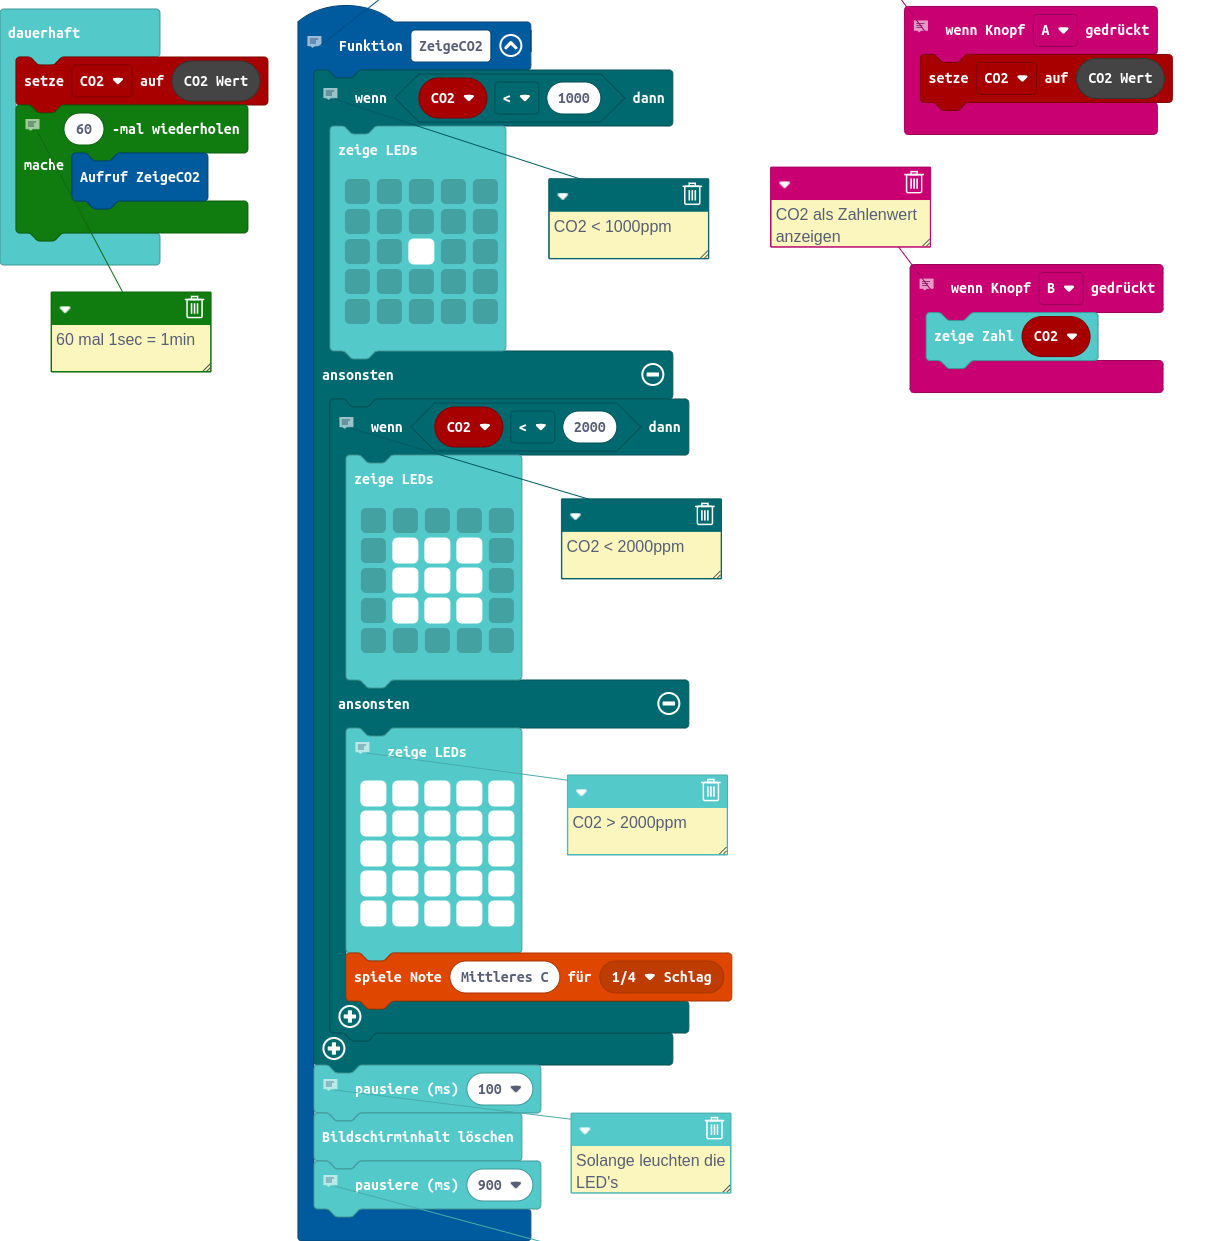
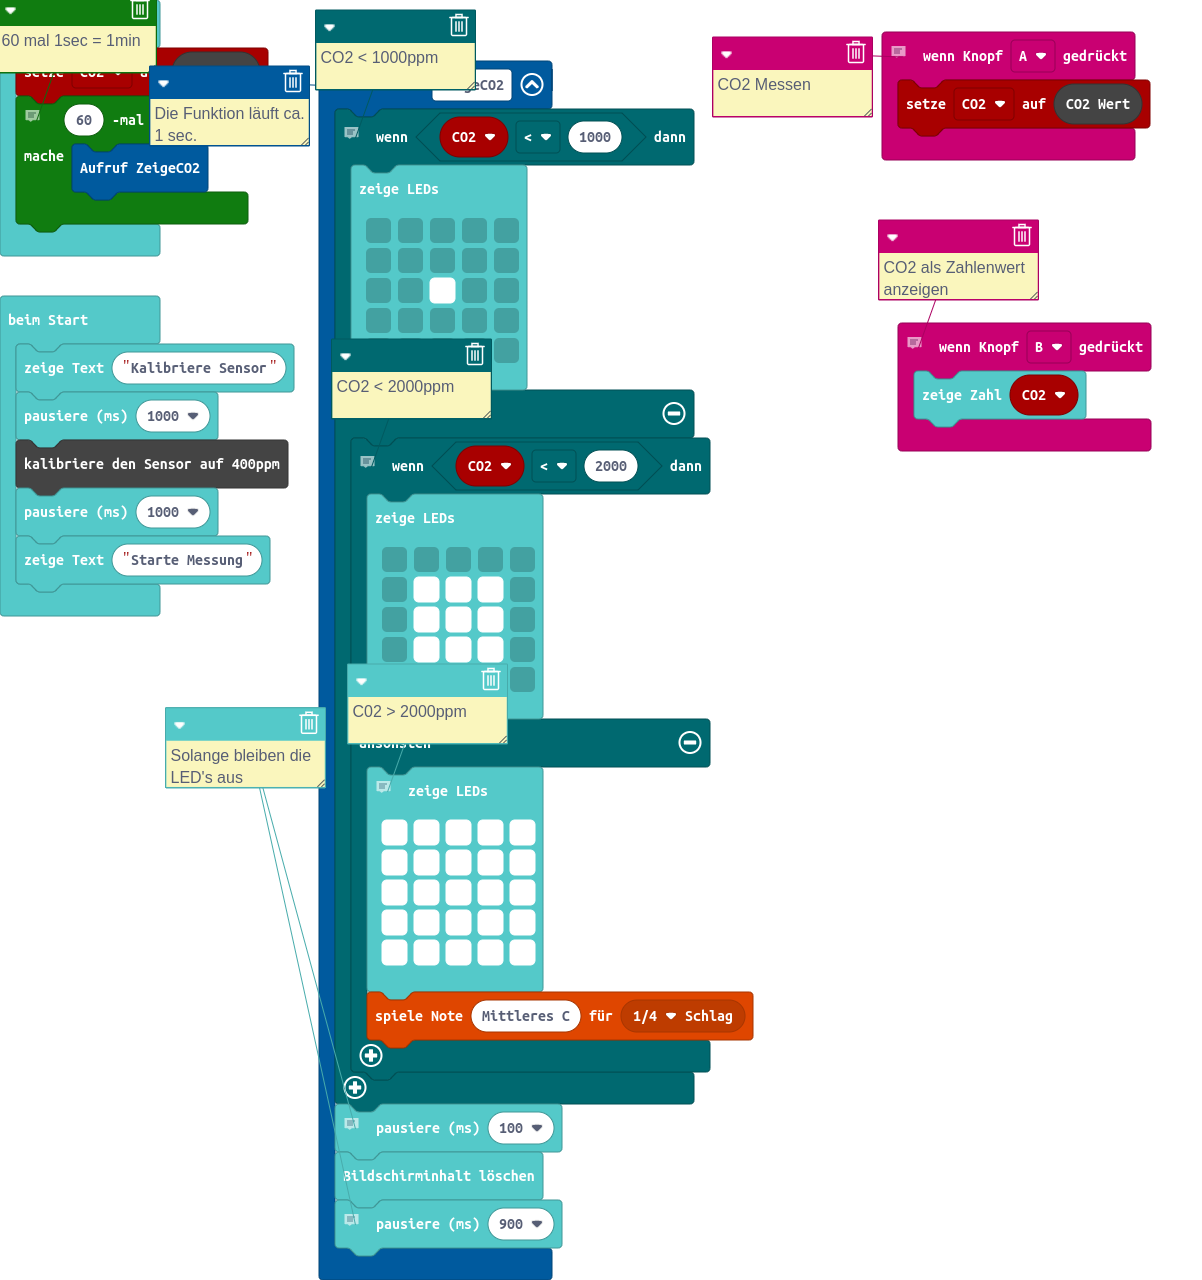
Aktualisiere main.blocks, main.ts

diff --git a/main.ts b/main.ts
@@ -1,4 +1,3 @@
-let CO2 = 0
 // CO2 Messen
 input.onButtonPressed(Button.A, function () {
     CO2 = SCD30.readCO2()
@@ -46,6 +45,12 @@ function ZeigeCO2 () {
     // Solange bleiben die LED's aus
     basic.pause(900)
 }
+let CO2 = 0
+basic.showString("Kalibriere Sensor")
+basic.pause(1000)
+SCD30.setCalibration400ppm()
+basic.pause(1000)
+basic.showString("Starte Messung")
 basic.forever(function () {
     CO2 = SCD30.readCO2()
     // 60 mal 1sec = 1min
